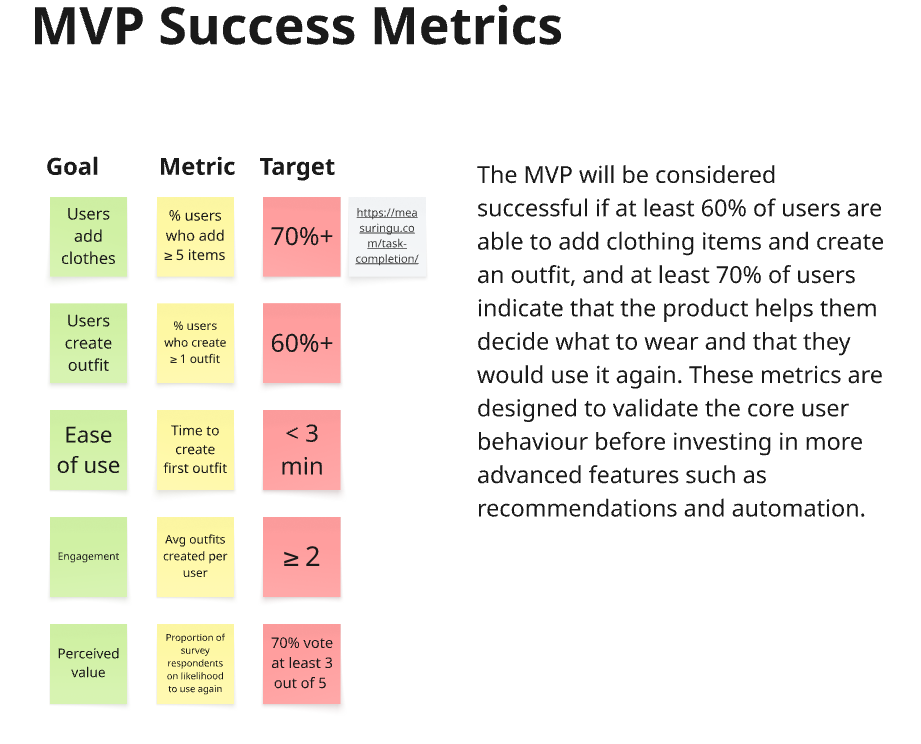
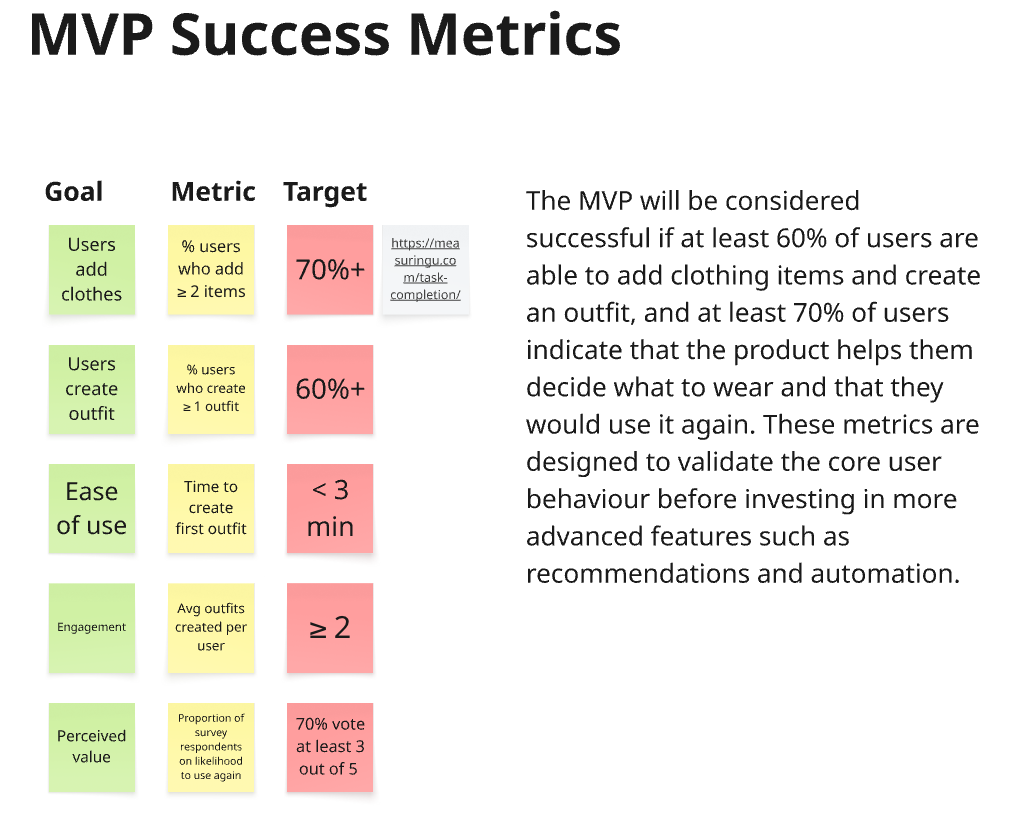
adjusted success metric

diff --git a/README.md b/README.md
@@ -128,7 +128,7 @@ These features may be explored after validating the core behaviour.
 ## Success Metrics
 The MVP will be considered successful if the following targets are met during testing:
 
-- ≥ 70% of users add 5 or more clothing items
+- ≥ 70% of users add 2 or more clothing items
 - ≥ 60% of users create at least one outfit
 - Time to first outfit created < 3 minutes
 - Average saved outfits per user ≥ 2

diff --git a/docs/PRD.md b/docs/PRD.md
@@ -217,7 +217,7 @@ Validation targets for the MVP. If the majority are not met after user testing, 
 
 | Metric | Target |
 |---|---|
-| Users who add 5 or more clothing items | ≥70% |
+| Users who add 2 or more clothing items | ≥70% |
 | Users who create 1 or more outfits | ≥60% |
 | Time to first outfit created | < 3 minutes |
 | Average saved outfits per user | ≥2 |
